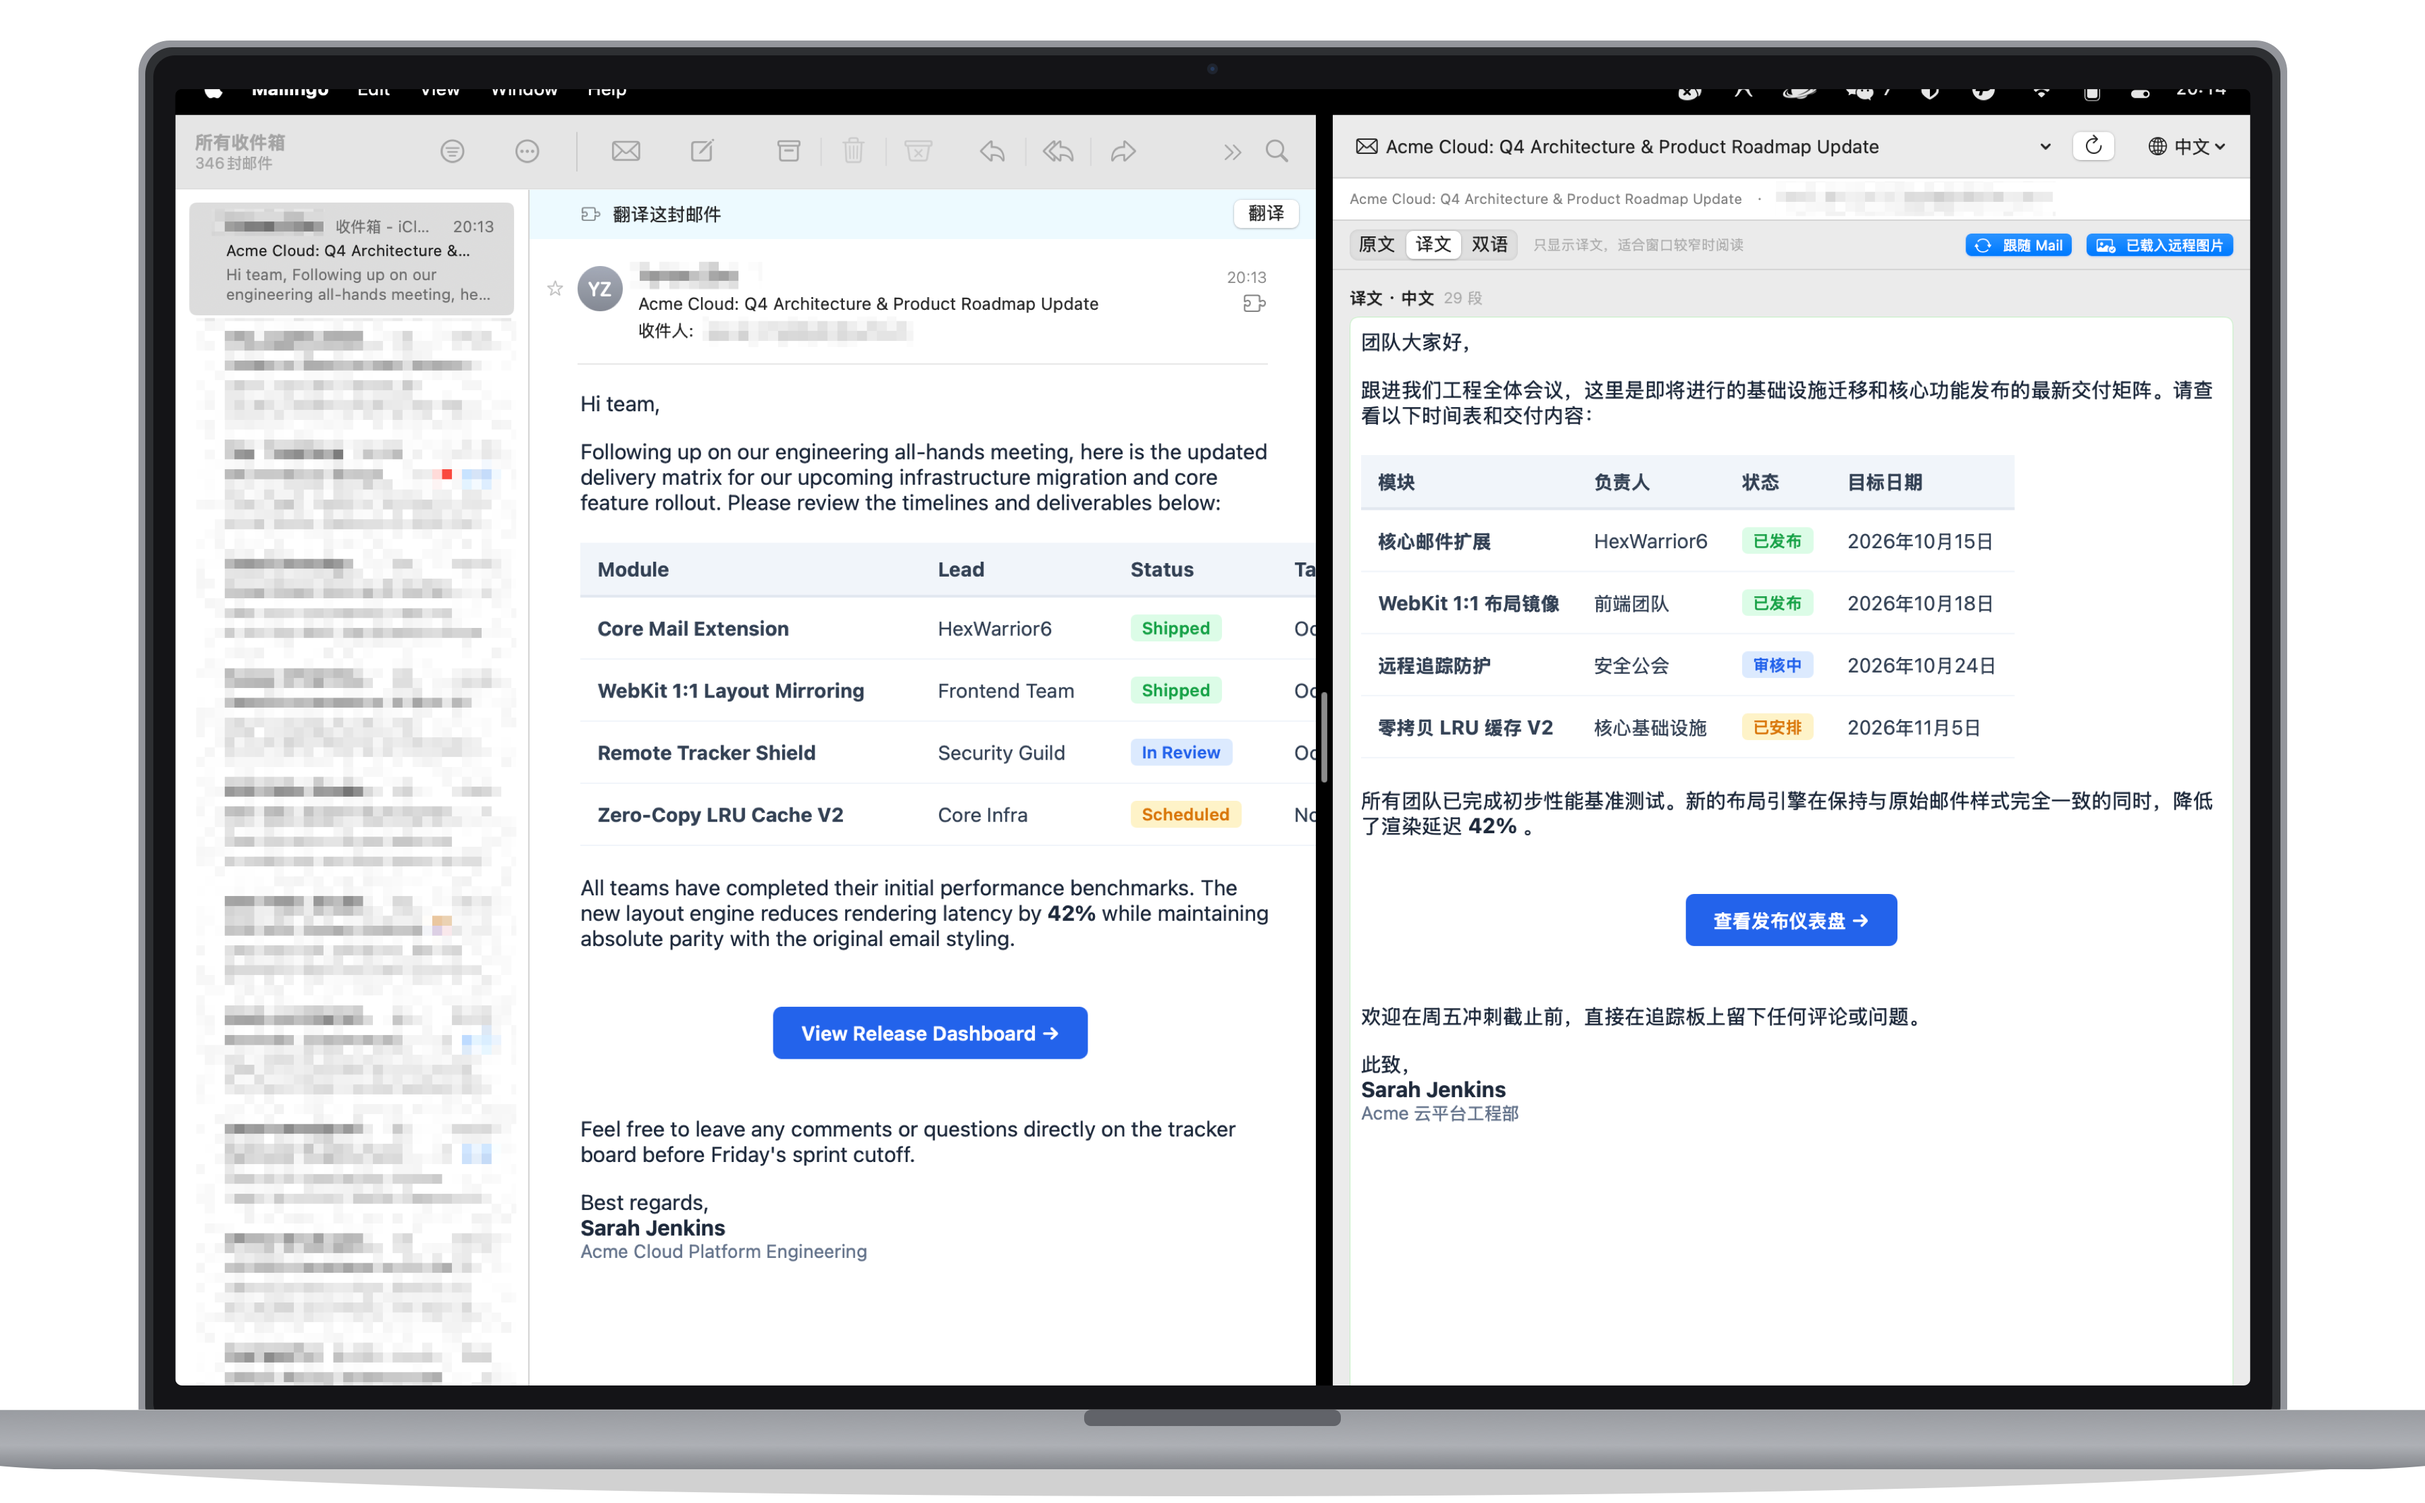
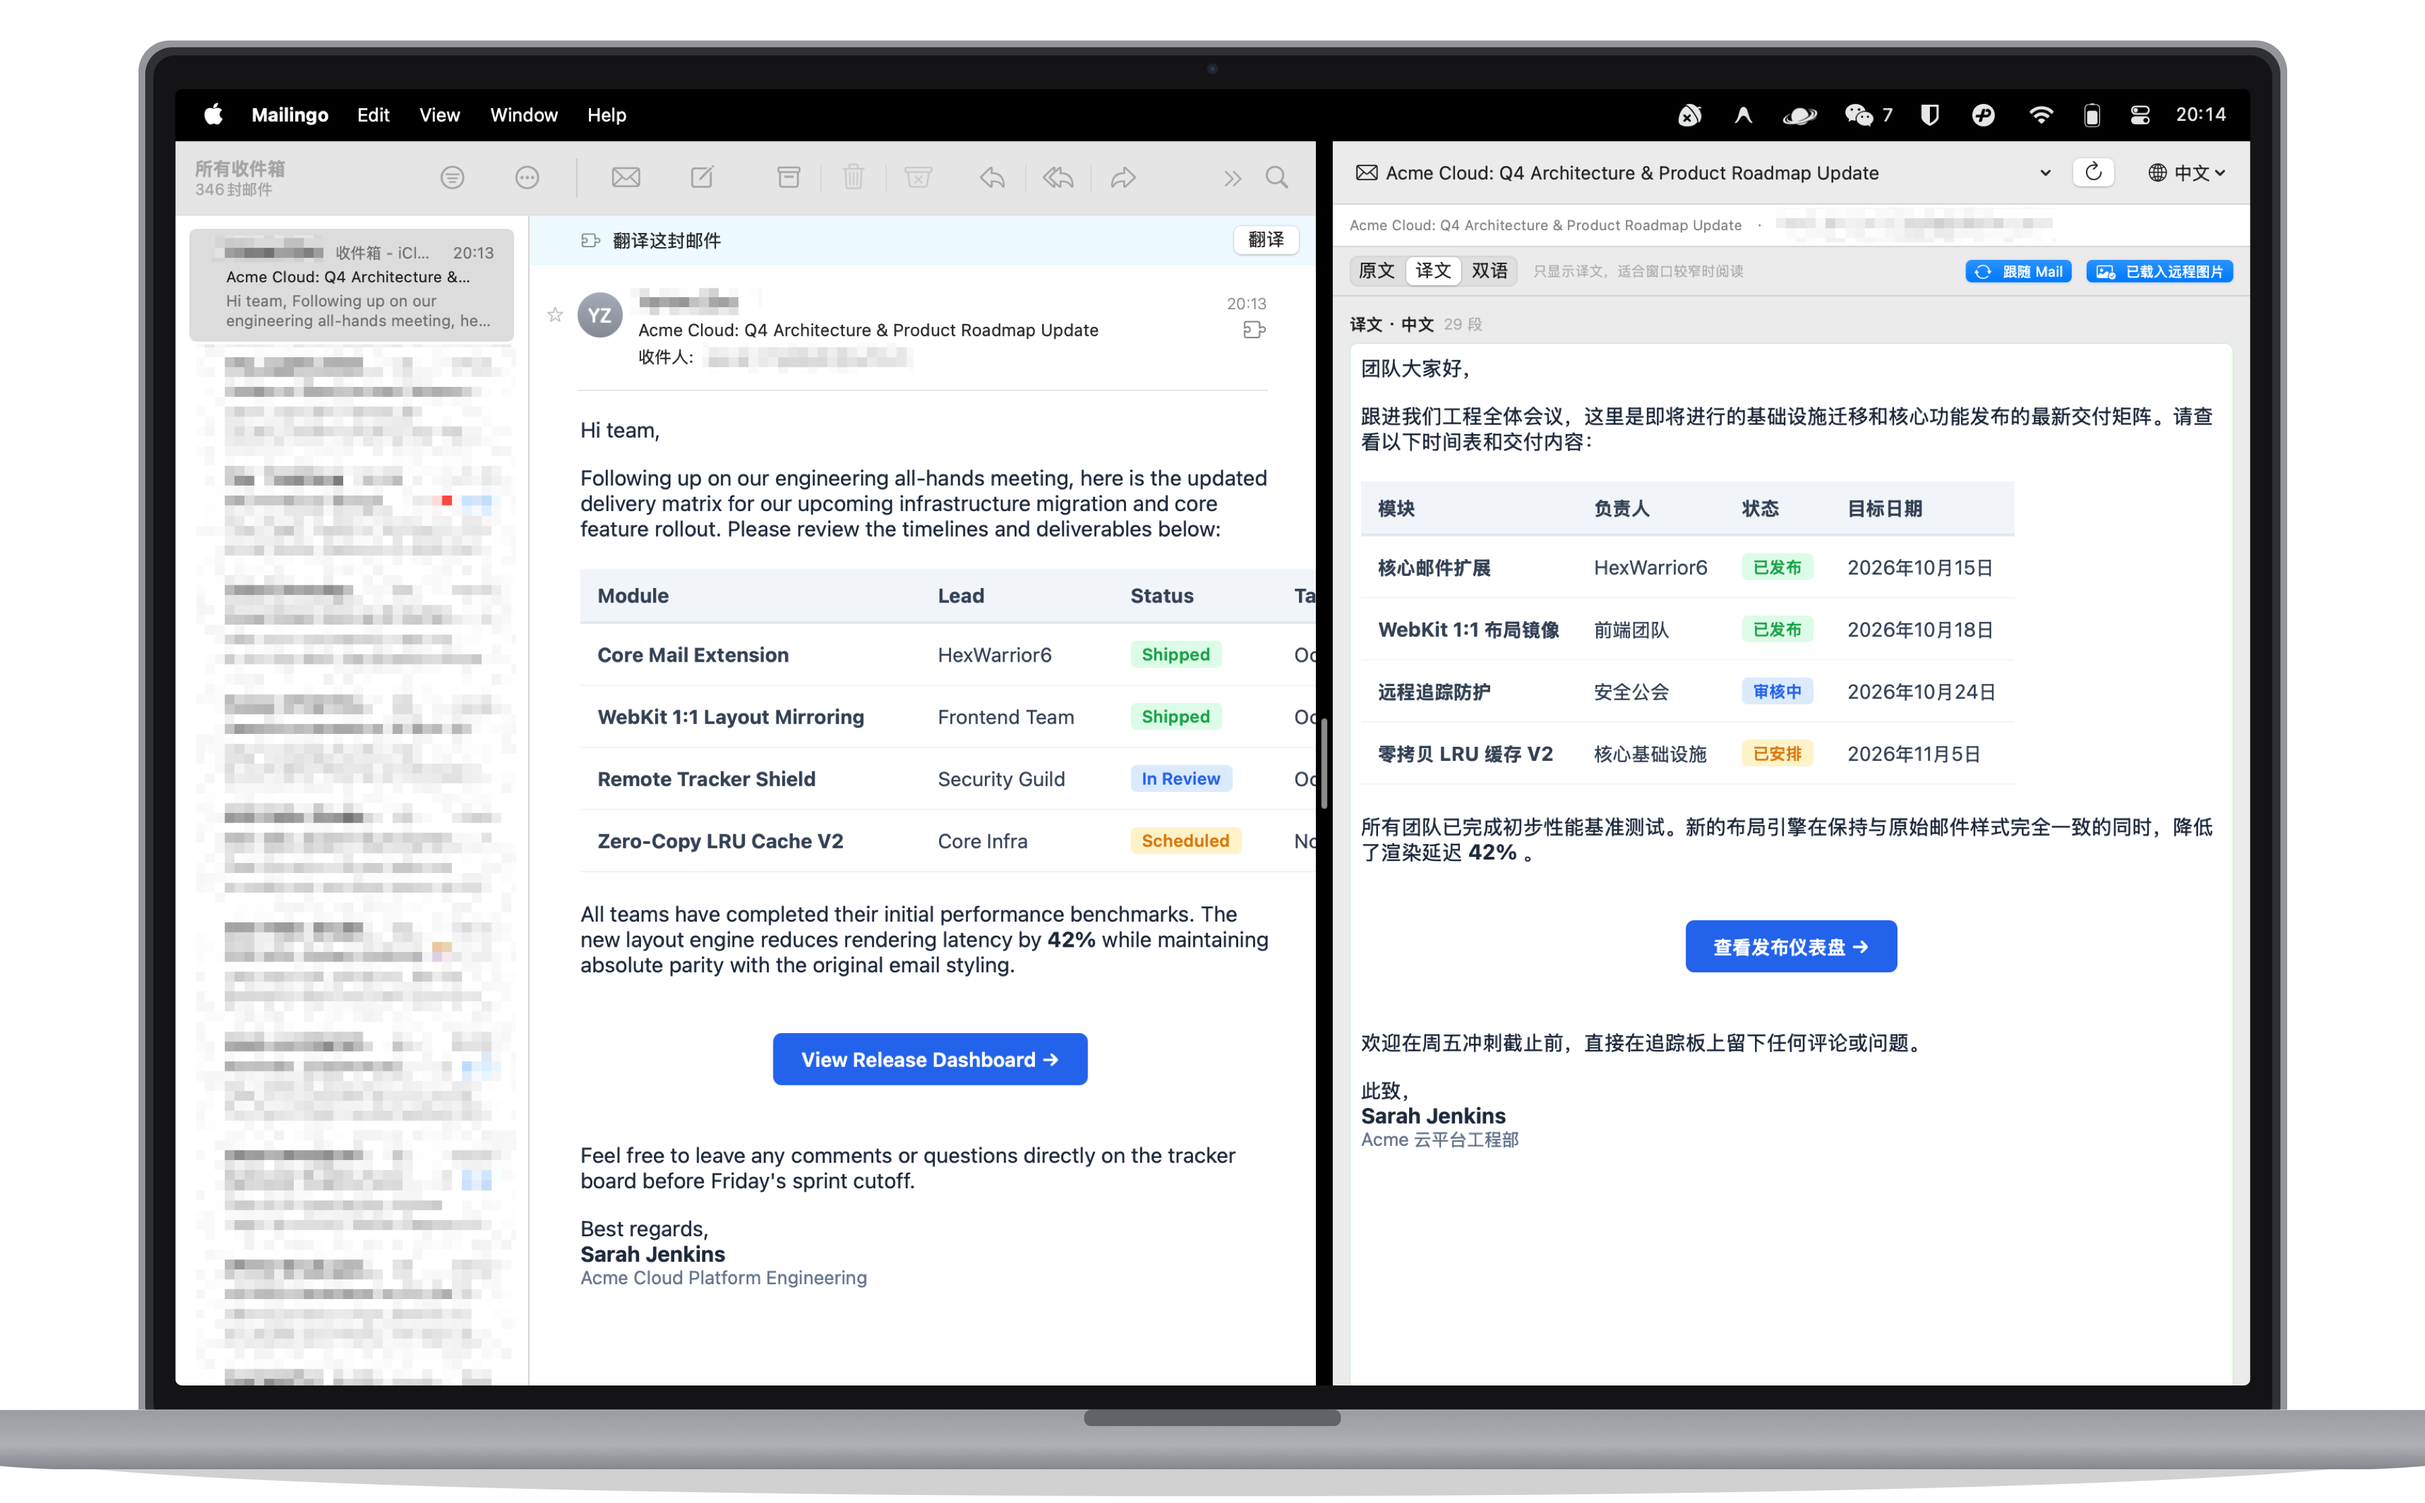
style(docs): top-align screenshot in MacBook frame without clipping

Changed region(s): [[0.0624, 0.062, 0.9359, 0.9299], [0.5616, 0.5889, 0.7799, 0.7749], [0.8111, 0.155, 0.9359, 0.217]]

diff --git a/Scripts/generate-mockup.swift b/Scripts/generate-mockup.swift
@@ -2,7 +2,9 @@
 import AppKit
 import Foundation
 
-let screenshotPath = "docs/assets/screenshot-main.png"
+let rawPath = "docs/assets/screenshot-raw.png"
+let fallbackPath = "docs/assets/screenshot-main.png"
+let screenshotPath = FileManager.default.fileExists(atPath: rawPath) ? rawPath : fallbackPath
 guard let screenshotImage = NSImage(contentsOfFile: screenshotPath) else {
     print("❌ 无法读取截图：\(screenshotPath)")
     exit(1)
@@ -78,7 +80,7 @@ screenClipPath.addClip()
 NSColor.black.setFill()
 screenRect.fill()
 
-// 绘制截图内容 (Aspect Fill 填充)
+// 绘制截图内容 (顶部完全对齐，严禁裁切顶上内容，多余高度在底部自然裁切)
 let srcSize = screenshotImage.size
 let scaleX = screenW / srcSize.width
 let scaleY = screenH / srcSize.height
@@ -86,7 +88,11 @@ let fillScale = max(scaleX, scaleY)
 let drawW = srcSize.width * fillScale
 let drawH = srcSize.height * fillScale
 let drawX = screenX + (screenW - drawW) / 2
-let drawY = screenY + (screenH - drawH) / 2
+// 在 Cocoa 坐标系中 (原点在左下角)：
+// 屏幕顶部为 screenY + screenH
+// 图像绘制区域的顶部为 drawY + drawH
+// 要保证顶部完全对齐、绝不裁切顶上内容：drawY + drawH = screenY + screenH => drawY = screenY + screenH - drawH
+let drawY = screenY + screenH - drawH
 
 screenshotImage.draw(in: CGRect(x: drawX, y: drawY, width: drawW, height: drawH), from: .zero, operation: .sourceOver, fraction: 1.0)
 
